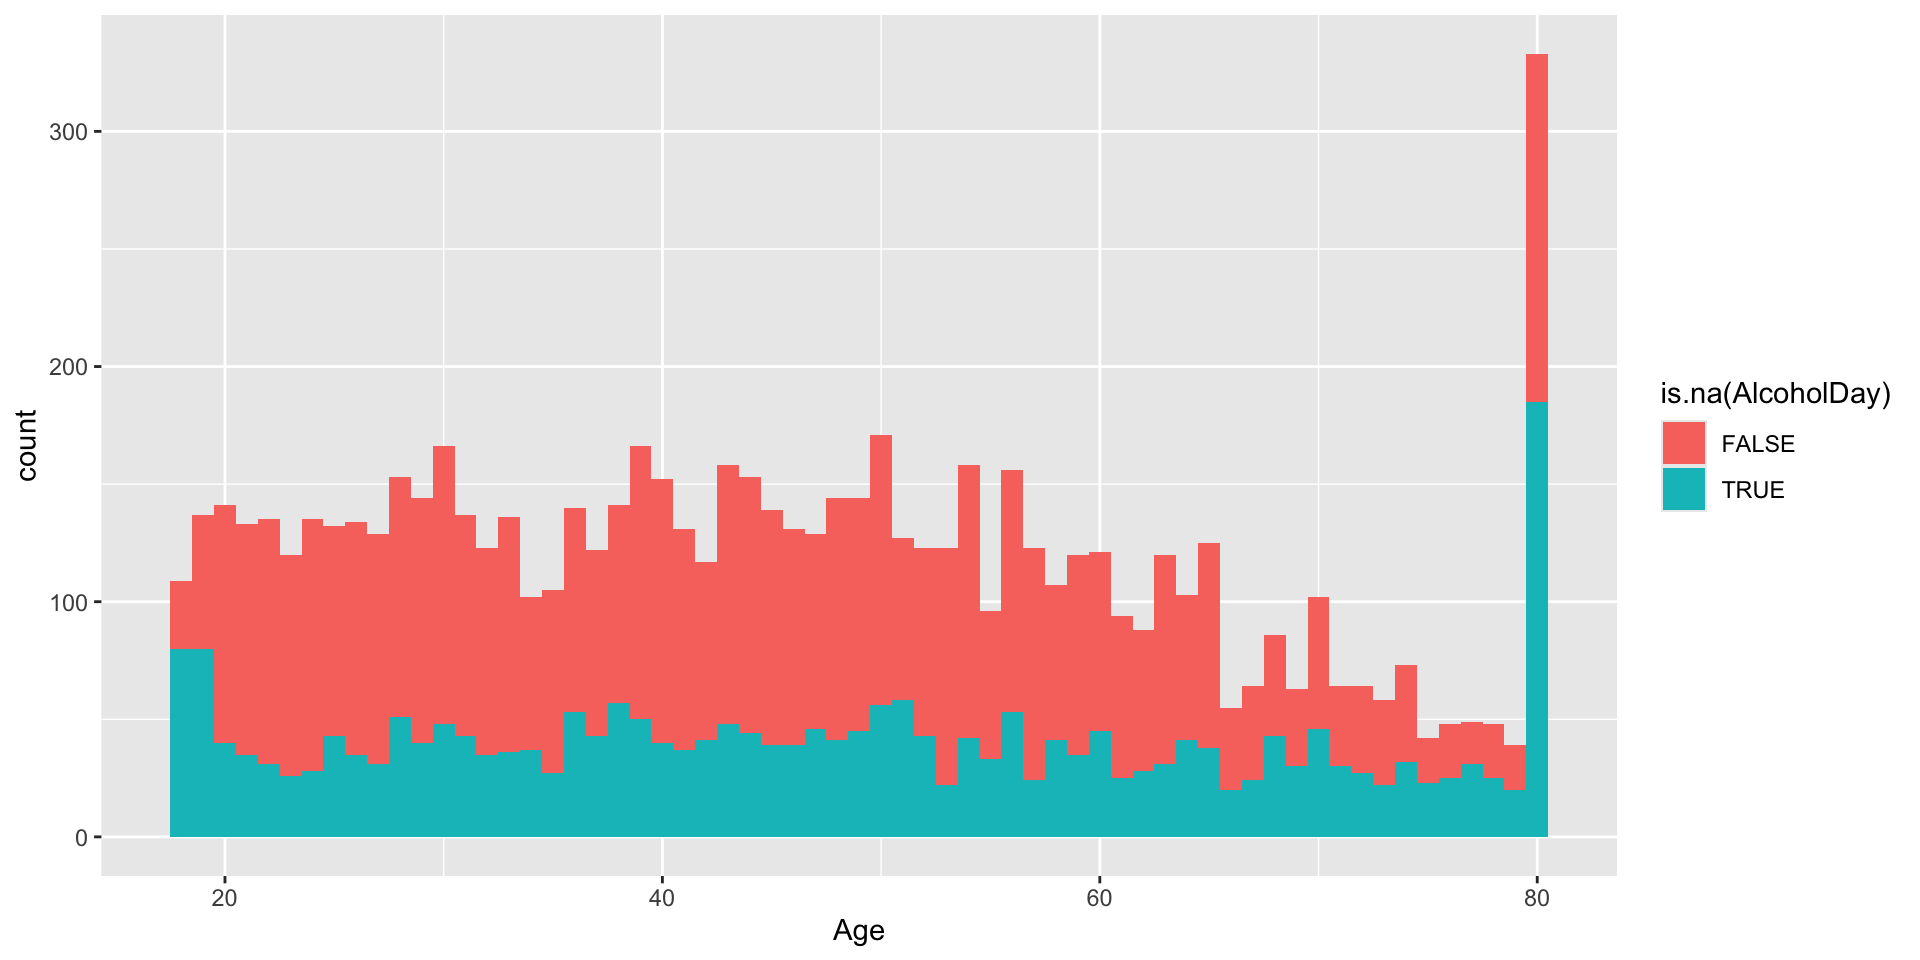
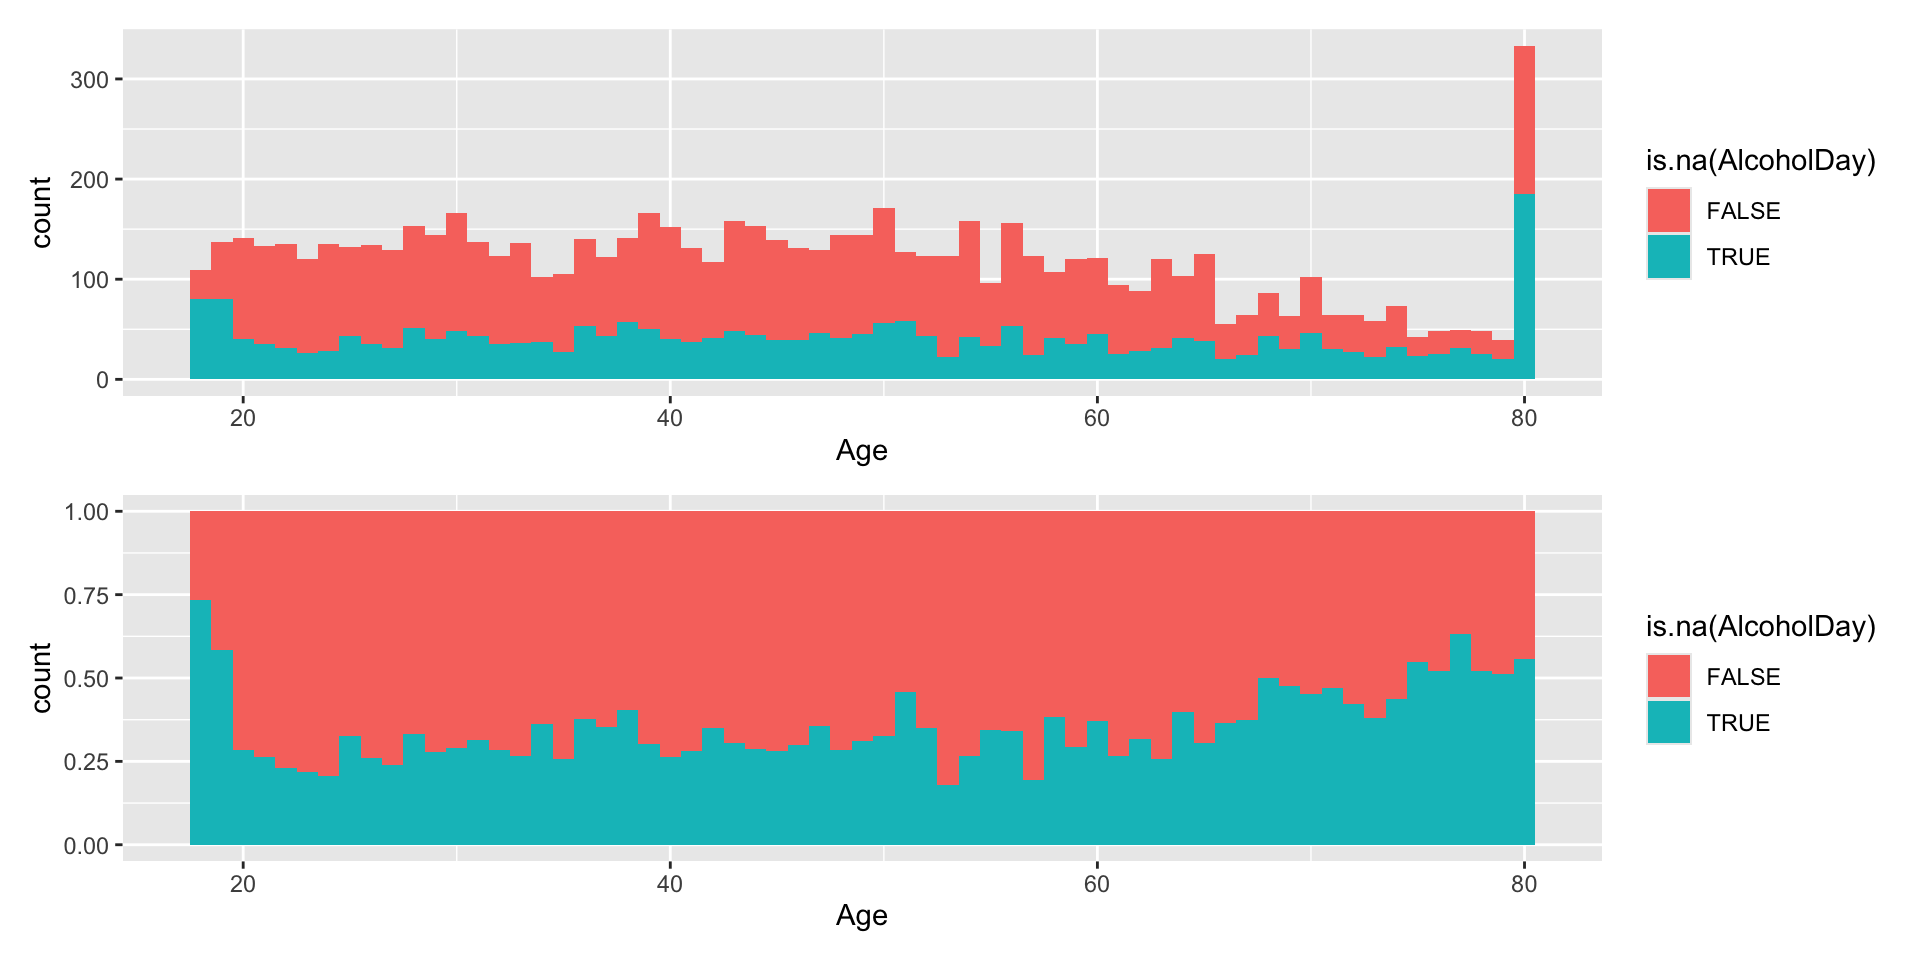
website

diff --git a/materials-2025/03-missing-values/03-imputing-example.html b/materials-2025/03-missing-values/03-imputing-example.html
@@ -299,7 +299,7 @@ E[y_i \mid y_i \text{ observed}] &amp;=&amp; E[y_i \mid r^*_i &gt; 0]\\
 &amp;=&amp; x_i\beta + E[\varepsilon_i \mid  u_i &gt; - z_i\gamma]\\
 &amp;=&amp; x_i\beta + \rho\sigma \underbrace{\frac{\phi(w_i\gamma)}{\Phi(w_i\gamma)}}_{\text{inverse Mills ratio}}
 \end{eqnarray*}
-\]</span> i.e.&nbsp;only if <span class="math inline">\(\rho \neg 0\)</span>, the expectation of <span class="math inline">\(Y\)</span> is affected by missing values.</p>
+\]</span> i.e.&nbsp;only if <span class="math inline">\(\rho \neq 0\)</span>, the expectation of <span class="math inline">\(Y\)</span> is affected by missing values.</p>
 <p>Then use ML Estimates for jointly estimating <span class="math inline">\(\beta, \rho, \sigma, \gamma\)</span>.</p>
 </section>
 
@@ -435,59 +435,54 @@ F-statistic: 132.1 on 1 and 4912 DF,  p-value: &lt; 2.2e-16</code></pre>
 <section id="impact-of-age-on-non-reports" class="title-slide slide level1 center">
 <h1>Impact of Age on Non-reports</h1>
 <p>Low age: high non-reports; higher non-reports with increase in Age</p>
+
+<img data-src="03-imputing-example_files/figure-revealjs/unnamed-chunk-9-1.png" width="960" class="r-stretch"><p>Model as linear term - we expect a negative parameter</p>
+</section>
+
+<section id="impact-of-testosterone-on-non-reports" class="title-slide slide level1 center">
+<h1>Impact of Testosterone on Non-reports</h1>
+<p>Low age: high non-reports; higher non-reports with increase in Age</p>
+
+<img data-src="03-imputing-example_files/figure-revealjs/unnamed-chunk-10-1.png" width="960" class="r-stretch"><p>Model as linear term - we expect a positive parameter</p>
+</section>
+
+<section id="selection-outcome-model" class="title-slide slide level1 center">
+<h1>Selection &amp; Outcome Model</h1>
 <div class="cell">
-<div class="cell-output-display">
-<div>
-<figure>
-<p><img data-src="03-imputing-example_files/figure-revealjs/unnamed-chunk-9-1.png" width="960"></p>
-</figure>
+<div class="sourceCode cell-code" id="cb6"><pre class="sourceCode numberSource r number-lines code-with-copy"><code class="sourceCode r"><span id="cb6-1"><a></a>model <span class="ot">&lt;-</span> <span class="fu">selection</span>(</span>
+<span id="cb6-2"><a></a>  <span class="at">selection =</span> ADnonmissing <span class="sc">~</span>  Age <span class="sc">+</span> BMI <span class="sc">+</span> Testosterone <span class="sc">+</span> TotChol,</span>
+<span id="cb6-3"><a></a>  <span class="at">outcome   =</span> AlcoholDay <span class="sc">~</span> Underage,</span>
+<span id="cb6-4"><a></a>  <span class="at">data =</span> NHANES)</span></code><button title="Copy to Clipboard" class="code-copy-button"><i class="bi"></i></button></pre></div>
 </div>
-</div>
-<div class="cell-output-display">
-<div>
-<figure>
-<p><img data-src="03-imputing-example_files/figure-revealjs/unnamed-chunk-9-2.png" width="960"></p>
-</figure>
-</div>
-</div>
-</div>
-<p>Model as linear term with interaction of <code>Underage</code></p>
 </section>
 
 <section id="section-1" class="title-slide slide level1 center">
-<h1></h1>
-
-</section>
-
-<section id="section-2" class="title-slide slide level1 center">
 <h1></h1>
 <div class="cell">
 <div class="cell-output cell-output-stdout">
 <pre><code>--------------------------------------------
 Tobit 2 model (sample selection model)
 Maximum Likelihood estimation
-Newton-Raphson maximisation, 6 iterations
+Newton-Raphson maximisation, 15 iterations
 Return code 8: successive function values within relative tolerance limit (reltol)
-Log-Likelihood: -15918.56 
-6529 observations (1733 censored and 4796 observed)
-11 free parameters (df = 6518)
+Log-Likelihood: -8296.125 
+3412 observations (1077 censored and 2335 observed)
+9 free parameters (df = 3403)
 Probit selection equation:
-                  Estimate Std. Error t value Pr(&gt;|t|)    
-(Intercept)       1.309990   0.149503   8.762  &lt; 2e-16 ***
-poly(Age, 2)1   -15.540511   1.490716 -10.425  &lt; 2e-16 ***
-poly(Age, 2)2   -17.389755   1.451158 -11.983  &lt; 2e-16 ***
-Pulse            -0.002547   0.001452  -1.754   0.0794 .  
-BMI              -0.019560   0.002516  -7.774 8.79e-15 ***
-SleepHrsNight     0.014796   0.012745   1.161   0.2457    
-DaysMentHlthBad  -0.003305   0.002160  -1.530   0.1261    
+               Estimate Std. Error t value Pr(&gt;|t|)    
+(Intercept)   0.6530601  0.1580146   4.133 3.67e-05 ***
+Age          -0.0108867  0.0013472  -8.081 8.82e-16 ***
+BMI          -0.0103824  0.0034632  -2.998  0.00274 ** 
+Testosterone  0.0007576  0.0001051   7.205 7.11e-13 ***
+TotChol       0.0955220  0.0218354   4.375 1.25e-05 ***
 Outcome equation:
              Estimate Std. Error t value Pr(&gt;|t|)    
-(Intercept)   2.93289    0.06588   44.52   &lt;2e-16 ***
-UnderageTRUE  2.23048    0.19575   11.39   &lt;2e-16 ***
+(Intercept)    3.0883     0.1076  28.710   &lt;2e-16 ***
+UnderageTRUE   2.4417     0.2838   8.605   &lt;2e-16 ***
    Error terms:
       Estimate Std. Error t value Pr(&gt;|t|)    
-sigma  3.15382    0.03283  96.078  &lt; 2e-16 ***
-rho   -0.11236    0.03432  -3.274  0.00107 ** 
+sigma  3.53068    0.05427  65.055  &lt; 2e-16 ***
+rho   -0.18739    0.04184  -4.479 7.75e-06 ***
 ---
 Signif. codes:  0 '***' 0.001 '**' 0.01 '*' 0.05 '.' 0.1 ' ' 1
 --------------------------------------------</code></pre>

diff --git a/project.html b/project.html
@@ -116,8 +116,19 @@ ul.task-list li input[type="checkbox"] {
 <div id="quarto-content" class="quarto-container page-columns page-rows-contents page-layout-article page-navbar">
 <!-- sidebar -->
 <!-- margin-sidebar -->
-    <div id="quarto-margin-sidebar" class="sidebar margin-sidebar zindex-bottom">
-        
+    <div id="quarto-margin-sidebar" class="sidebar margin-sidebar">
+        <nav id="TOC" role="doc-toc" class="toc-active">
+    <h2 id="toc-title">On this page</h2>
+   
+  <ul>
+  <li><a href="#final-project" id="toc-final-project" class="nav-link active" data-scroll-target="#final-project">Final Project</a>
+  <ul class="collapse">
+  <li><a href="#choice-of-topic" id="toc-choice-of-topic" class="nav-link" data-scroll-target="#choice-of-topic">Choice of Topic</a></li>
+  <li><a href="#draft" id="toc-draft" class="nav-link" data-scroll-target="#draft">Draft</a></li>
+  <li><a href="#final-writeupshow" id="toc-final-writeupshow" class="nav-link" data-scroll-target="#final-writeupshow">Final writeup/show</a></li>
+  </ul></li>
+  </ul>
+</nav>
     </div>
 <!-- main -->
 <main class="content" id="quarto-document-content">
@@ -141,17 +152,49 @@ ul.task-list li input[type="checkbox"] {
 </header>
 
 
+<p>Note: This assignment must be accepted in Canvas and submitted in github classroom.</p>
+<!-- README.md is generated from README.Rmd. Please edit that file -->
+<section id="final-project" class="level1">
+<h1>Final Project</h1>
+<p>The general premise of the final project for this class is that is supposed to showcase some aspects of the techniques we discussed.</p>
+<p>Given the far-reaching extent of what can be considered ‘messy data analysis’, you could focus on any one of these aspects. Examples of potential routes your project could cover are:</p>
+<ol type="1">
+<li><p><strong>Create a tidy dataset</strong> from one or more (messy) sources. Document (a) the provenance of the data, (b) the tidying process, (c) the tidy data, and (d) make the data available, and (e) document a good use case.</p></li>
+<li><p><strong>Solve a problem</strong> by starting with a motivating question. Document (a) data sources suitable for answering the question, (b) the data collection process, (c) the tidying process, (d) the suitability of the analysis, and (e) make your analytic writeup available together with the documentation necessary for reproducing the results.</p></li>
+<li><p><strong>Assess an analytic tool</strong> using a simulation. Document (a) the theoretical basis, (b) the (tidy) simulation setup under various scenarios, (c) an in-depth analysis of the results. (d) Discuss potential alternatives and limitations, and (e) make your writeup available together with code and documentation for reproducing the results.</p></li>
+</ol>
 <p>As an individual or in a team pick a topic and</p>
 <ol type="1">
-<li>create a (cleanish) dataset</li>
-<li>choose an appropriate analysis</li>
-<li>interpret results</li>
+<li>work on a topic of your choice</li>
 <li>publish your analysis and findings</li>
-<li>Create a video highlighting your work</li>
+<li>create a video highlighting your work</li>
 </ol>
-<p>More information will be coming as we get closer to the start of the project work.</p>
+<p>There are multiple submission stages for the project:</p>
+<section id="choice-of-topic" class="level2">
+<h2 class="anchored" data-anchor-id="choice-of-topic">Choice of Topic</h2>
+<p>Create a file <code>topic.qmd</code> that includes</p>
+<ol type="1">
+<li>a motivation of your topic,</li>
+<li>a description of your plan of work. Please provide as much detail as you can,</li>
+<li>a team name and a list of all members on your team</li>
+</ol>
+<p>For the submission, push the file <code>topic.qmd</code> to the github repository and include a submission link in Canvas.</p>
+</section>
+<section id="draft" class="level2">
+<h2 class="anchored" data-anchor-id="draft">Draft</h2>
+<p>Create a file <code>draft.qmd</code> that includes all of the items of the Choice of Topic (potentially in a different order). Change the Plan of work to an outline and fill in details. For any code chunk decide, whether you want to show the code (that should happen sparingly). Provide comments in the code about what each code chunk is supposed to do. Describe and interpret results. Include visuals (not so sparingly :))</p>
+<p>For the submission, push the file <code>draft.qmd</code> to the github repository and include a submission link in Canvas.</p>
+</section>
+<section id="final-writeupshow" class="level2">
+<h2 class="anchored" data-anchor-id="final-writeupshow">Final writeup/show</h2>
+<p>For the final work, create a file <code>index.qmd</code>. Make sure that this file renders its output into a folder called <code>docs</code>.</p>
+<p>Use Github pages for the repo to create publicly visible website showcasing your work.</p>
+<p>Provide links to all of the elements you have created (such as data sets, functions, R package, video, presentation slides, …).</p>
+<p>For the submission, push the index file, the docs folder and any of your creations to the repository, and include a submission link in Canvas.</p>
 
 
+</section>
+</section>
 
 </main> <!-- /main -->
 <script id="quarto-html-after-body" type="application/javascript">

diff --git a/index.html b/index.html
@@ -865,7 +865,7 @@ Type
 
 </tr>
 
-<tr data-index="3" data-categories="c2xpZGVzJTJDV2VlazA5" data-listing-date-sort="1760418000000" data-listing-file-modified-sort="1760465148755" data-listing-date-modified-sort="NaN" data-listing-reading-time-sort="5" data-listing-word-count-sort="886" data-listing-title-sort="MAR or MNAR?" data-listing-filename-sort="03-imputing-example.qmd">
+<tr data-index="3" data-categories="c2xpZGVzJTJDV2VlazA5" data-listing-date-sort="1760418000000" data-listing-file-modified-sort="1760498490729" data-listing-date-modified-sort="NaN" data-listing-reading-time-sort="5" data-listing-word-count-sort="941" data-listing-title-sort="MAR or MNAR?" data-listing-filename-sort="03-imputing-example.qmd">
 <td>
 <span class="listing-date">Oct 14, 2025</span>
 </td>
